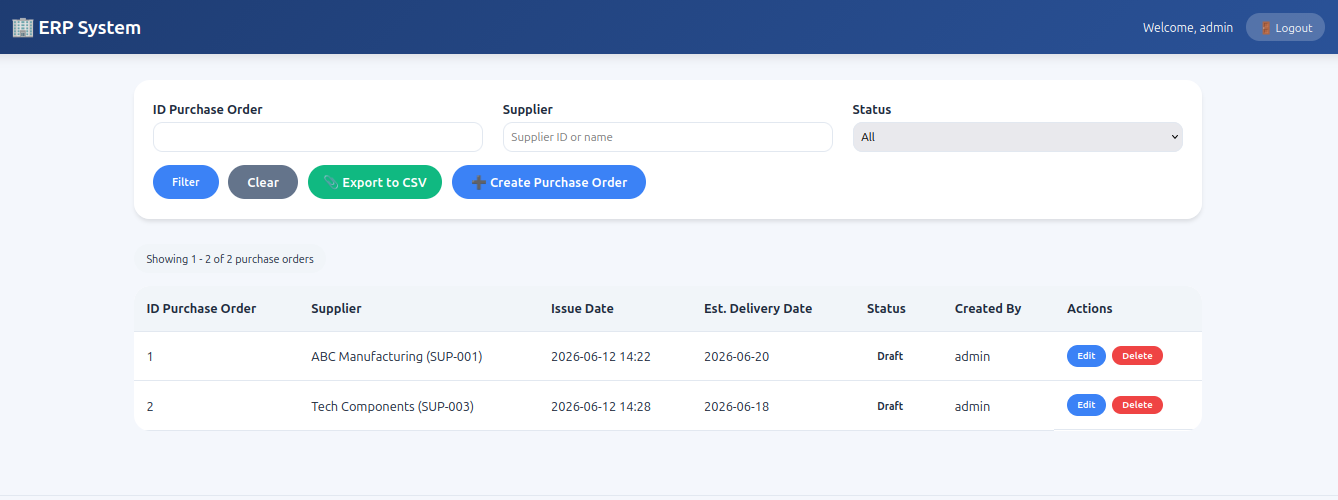
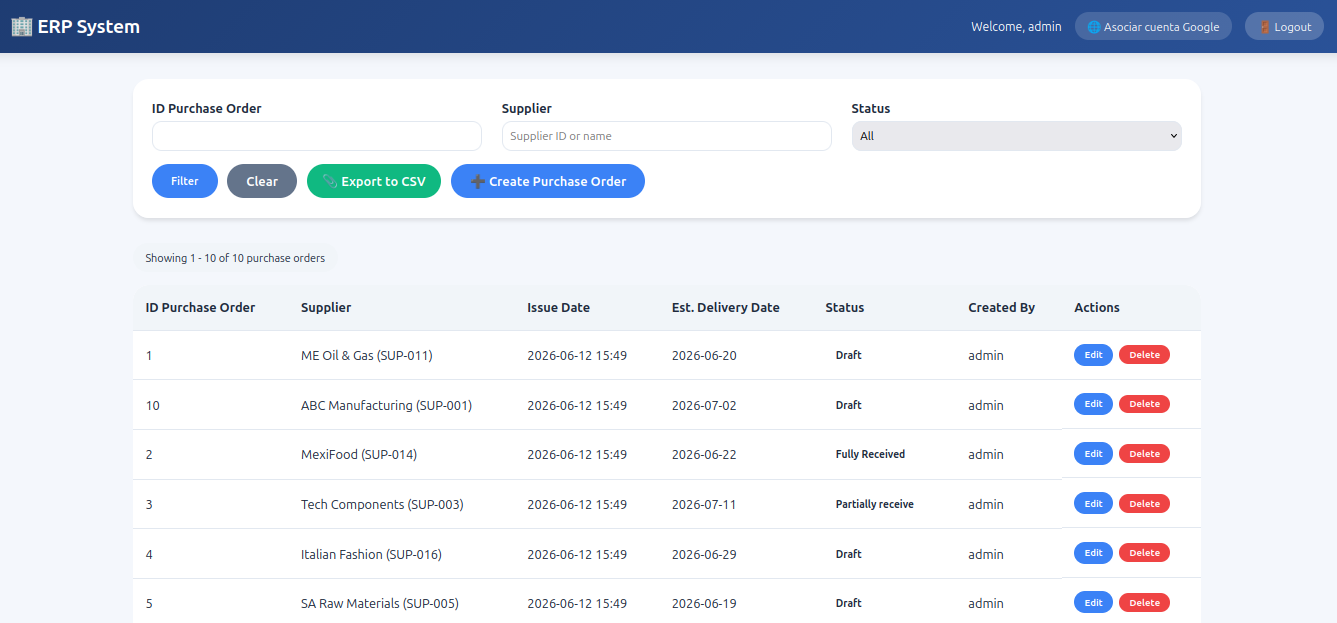
Actualizando módulo de Compras

diff --git a/purchases/templates/purchases/goods_receipt_form.html b/purchases/templates/purchases/goods_receipt_form.html
@@ -6,7 +6,6 @@
 {% block extra_css %}
 <link rel="stylesheet" href="{% static 'core/css/form.css' %}">
 <link rel="stylesheet" href="{% static 'purchases/css/goods_receipt_form.css' %}">
-
 {% endblock %}
 
 {% block content %}
@@ -54,27 +53,21 @@
                 <table class="data-table receipt-table" id="receipt-items-table">
                     <thead>
                         <tr>
-                            <th>Position</th>
                             <th class="col-id">ID Material</th>
-                            <th class="col-description">Description</th>
-                            <th>Unit</th>
-                            <th style="text-align:right;">Ordered</th>
+                            <th style="text-align:right;">Ordered Qty</th>
                             <th style="text-align:right;">Already Received</th>
-                            <th class="col-pending">Pending</th>
-                            <th class="col-qty">Qty to Receive</th>
+                            <th class="col-qty">Received Qty</th>
                             <th class="col-location">Location</th>
+                            <th>Unit</th>
+                            <th style="text-align:right;">Price</th>
                         </tr>
                     </thead>
                     <tbody id="receipt-items-container">
                         {% for line in order_lines %}
                         <tr class="receipt-item-row" data-line-pk="{{ line.pk }}">
-                            <td>{{ line.position }}</td>
                             <td>{{ line.id_material.id_material }}</td>
-                            <td>{{ line.id_material.name }}</td>
-                            <td>{{ line.unit_material.symbol }}</td>
                             <td style="text-align:right;">{{ line.quantity }}</td>
                             <td style="text-align:right;">{{ line.receive_quantity }}</td>
-                            <td><span class="pending-badge">{{ line.pending_quantity }}</span></td>
                             <td>
                                 <input type="number" class="qty-to-receive" 
                                        min="0" max="{{ line.pending_quantity }}" 
@@ -84,13 +77,17 @@
                                 <select class="location-select">
                                     <option value="">-- Select --</option>
                                     {% for loc in locations %}
-                                    <option value="{{ loc.pk }}">{{ loc.code }} - {{ loc.name }}</option>
+                                    <option value="{{ loc.pk }}">
+                                        {{ loc.code }} - {{ loc.name }}
+                                    </option>
                                     {% endfor %}
                                 </select>
                             </td>
+                            <td>{{ line.unit_material.symbol }}</td>
+                            <td style="text-align:right;">{{ line.price }} {{ line.currency_supplier.code }}</td>
                         </tr>
                         {% empty %}
-                        <tr class="empty-row"><td colspan="9">All lines have been fully received.</td></tr>
+                        <tr class="empty-row"><td colspan="7">All lines have been fully received.</td></tr>
                         {% endfor %}
                     </tbody>
                 </table>

diff --git a/purchases/models.py b/purchases/models.py
@@ -110,7 +110,7 @@ class LinesGoodsReceipt(models.Model):
 
     id_goods_receipt_line = models.CharField(verbose_name="ID Goods Receipt Line", max_length=20, unique=True, db_index=True)
     id_goods_receipt = models.ForeignKey(GoodsReceipt, on_delete=models.CASCADE, verbose_name="ID Goods Receipts", related_name='lines')
-    id_purchase_order_line = models.ForeignKey(LinesPurchaseOrder, on_delete=models.PROTECT, verbose_name='ID Purchase Order Line')
+    id_purchase_order_line = models.ForeignKey(LinesPurchaseOrder, on_delete=models.CASCADE, verbose_name='ID Purchase Order Line')
     id_material = models.ForeignKey(Material, on_delete=models.PROTECT, verbose_name="Material ID")
     unit_material = models.ForeignKey(Unit, verbose_name="Unit Type", on_delete=models.PROTECT)
     receive_quantity = models.IntegerField(verbose_name='Receive Quantity')
@@ -128,3 +128,8 @@ class LinesGoodsReceipt(models.Model):
 
     def __str__(self):
         return self.id_goods_receipt_line
+    
+
+
+
+    

diff --git a/inventory/models.py b/inventory/models.py
@@ -44,7 +44,7 @@ class LocationInventory(models.Model):
         verbose_name_plural = "Inventory Locations"
 
     def __str__(self):
-        return f"{self.code}"
+        return f"{self.id_location}-{self.name}"
 
 
 